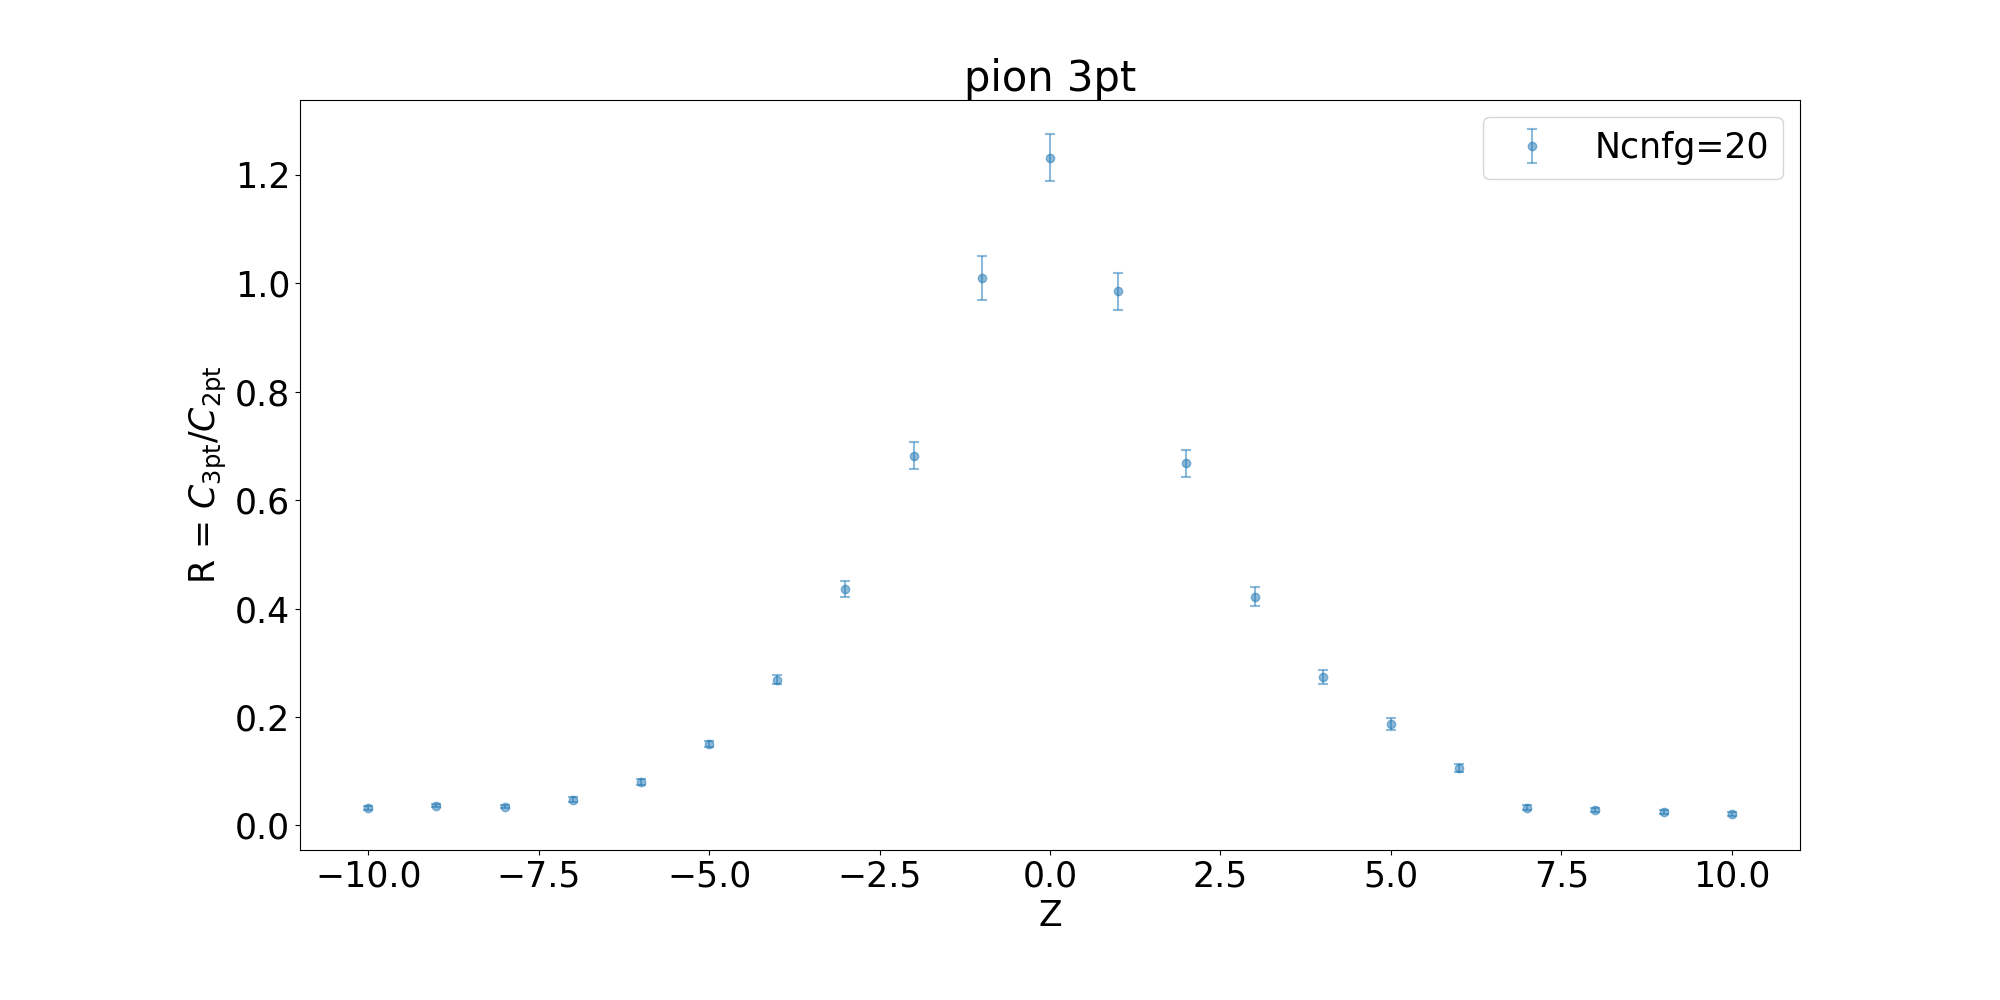
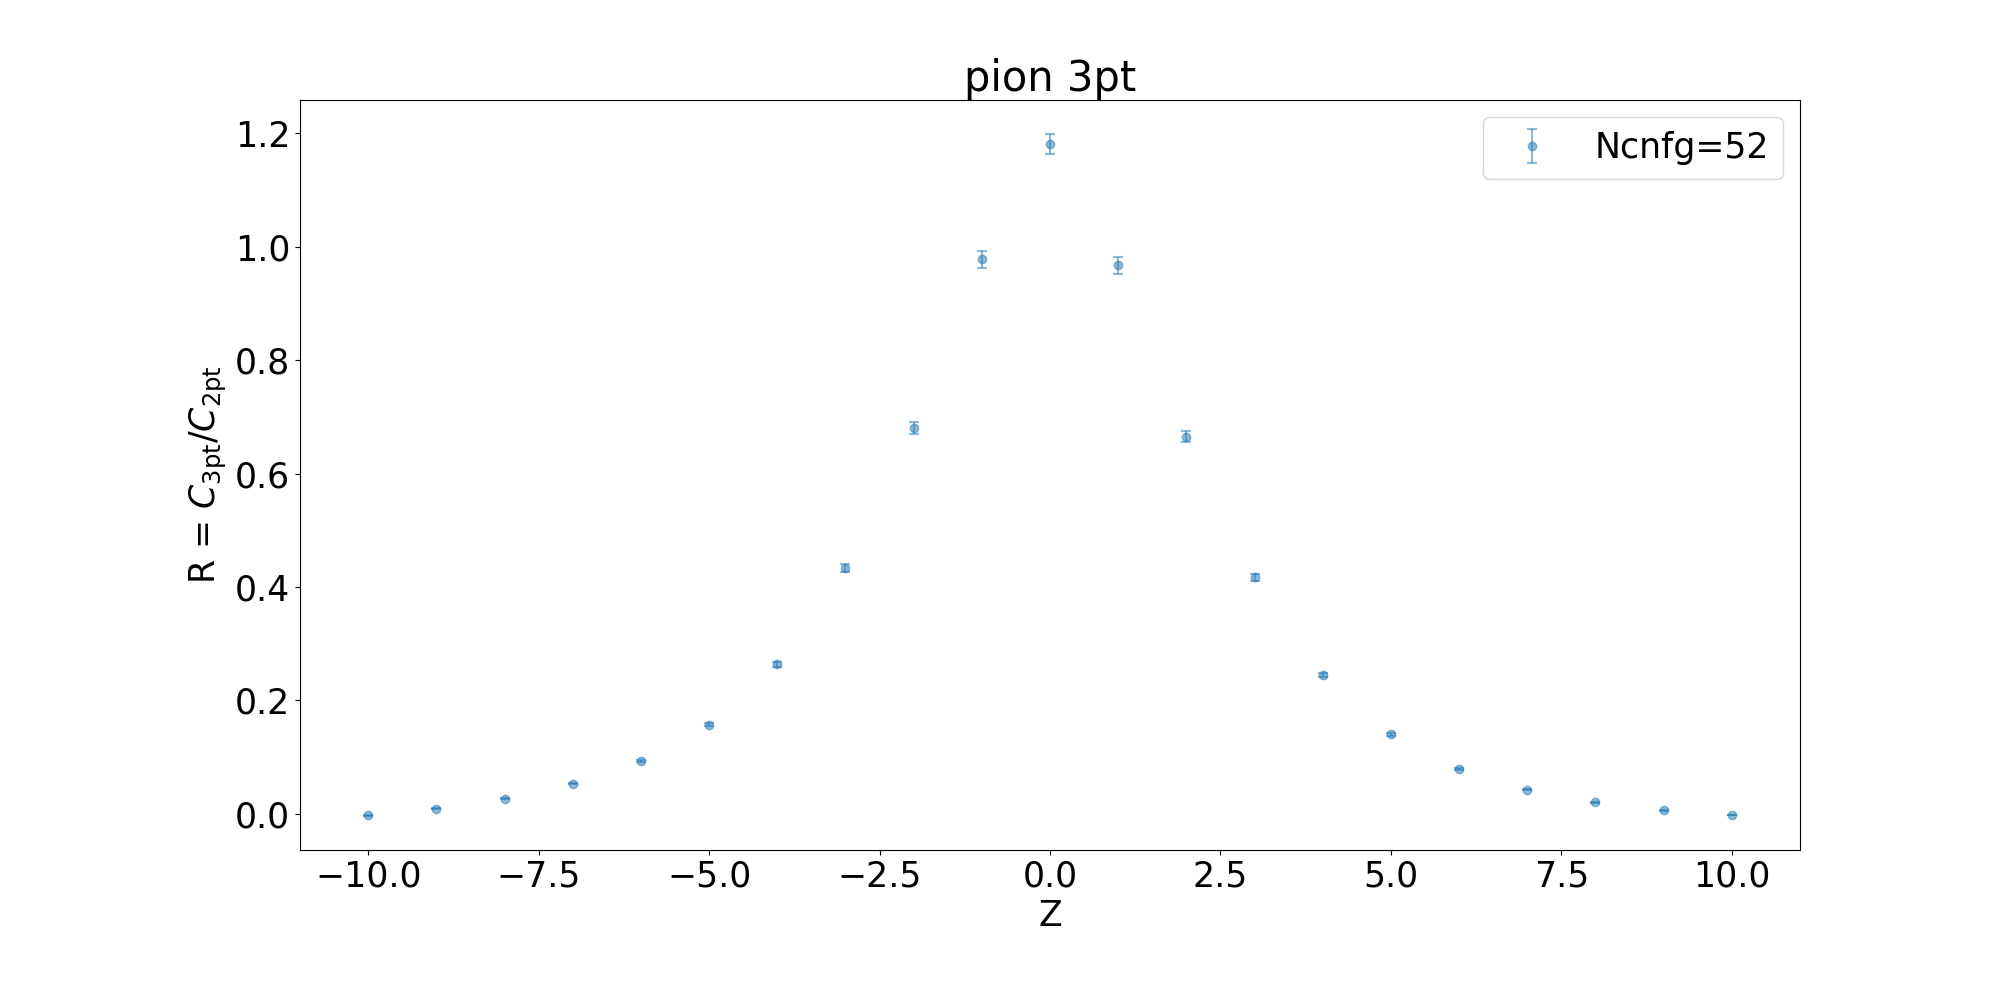
2025-03-24-16-05-34

diff --git a/pion_3pt/main-3pt.py b/pion_3pt/main-3pt.py
@@ -1,8 +1,36 @@
 from include import *
 import numpy as np
+# filepath = np.array([
+#     './beta6.20_mu-0.2770_ms-0.2400_L%dx%d/iog/pion_U_3pt_Px%dPy%dPz%d_ENV%d_conf%d_tsep%d_mass-0.2770_linkdir2_linkmax%d_conserved_true.iog', 
+#     './beta6.20_mu-0.2770_ms-0.2400_L%dx%d/iog/pion_2pt_Px%dPy%dPz%d_ENV%d_conf%d_tsep-1_mass-0.2770.iog',
+#                      ])
+# analyse = data_analyse(
+#     num_data=2,
+#     hadron='pion',
+#     filepath=filepath,
+#     alttc=0.1053,
+#     Nx=24,
+#     Nt=72,
+#     time_fold=True,
+#     P=np.asarray([[0,0,0]]),
+#     ENV=np.asarray(range(-1,0,1)),
+#     N_start=10000,
+#     gap=50,
+#     Ncnfg_data=20,
+#     Ncnfg_iog=20,
+#     tsep=np.asarray([10]),
+#     link_max=10,
+#     save_path='./',
+#     analyse_type='ratio',
+#     meff_type='cosh',# for 2pt
+#     read_type='iog',
+# )
+# np.save('_2pt.npy', analyse.readed_jcknf['readed_2pt_iog'])
+# np.save('_3pt.npy', analyse.readed_jcknf['readed_3pt_iog_U'])
+# print('complete')
 filepath = np.array([
-    './beta6.20_mu-0.2770_ms-0.2400_L%dx%d/iog/pion_U_3pt_Px%dPy%dPz%d_ENV%d_conf%d_tsep%d_mass-0.2770_linkdir2_linkmax%d_conserved_true.iog', 
-    './beta6.20_mu-0.2770_ms-0.2400_L%dx%d/iog/pion_2pt_Px%dPy%dPz%d_ENV%d_conf%d_tsep-1_mass-0.2770.iog',
+    './beta6.20_mu-0.2770_ms-0.2400_L%dx%d/sush_iog/pion_3pt_Px%dPy%dPz%d_ENV%d_conf%d_tsep%d_mass-0.2770_linkdir2_linkmax%d.iog', 
+    './beta6.20_mu-0.2770_ms-0.2400_L%dx%d/sush_iog/pion_2pt_Px%dPy%dPz%d_ENV%d_conf%d_tsep-1_mass-0.2770.iog',
                      ])
 analyse = data_analyse(
     num_data=2,
@@ -14,11 +42,11 @@ analyse = data_analyse(
     time_fold=True,
     P=np.asarray([[0,0,0]]),
     ENV=np.asarray(range(-1,0,1)),
-    N_start=10000,
+    N_start=10050,
     gap=50,
-    Ncnfg_data=20,
-    Ncnfg_iog=20,
-    tsep=np.asarray([10]),
+    Ncnfg_data=0,
+    Ncnfg_iog=52,
+    tsep=np.asarray([36]),
     link_max=10,
     save_path='./',
     analyse_type='ratio',

diff --git a/pion_3pt/main-2pt.py b/pion_3pt/main-2pt.py
@@ -1,7 +1,37 @@
 from include import *
 import numpy as np
+# filepath = np.array([
+#     './beta6.20_mu-0.2770_ms-0.2400_L%dx%d/iog/pion_2pt_Px%dPy%dPz%d_ENV%d_conf%d_tsep-1_mass-0.2770.iog',
+#                      ])
+# analyse = data_analyse(
+#     num_data=1,
+#     hadron='pion',
+#     filepath=filepath,
+#     alttc=0.1053,
+#     Nx=24,
+#     Nt=72,
+#     P=np.asarray([[0,0,0]]),
+#     ENV=np.asarray(range(-1,0,1)),
+#     N_start=10000,
+#     gap=50,
+#     Ncnfg_data=0,
+#     Ncnfg_iog=20,
+#     tsep=np.asarray([10]),
+#     time_fold=0,
+#     save_path='./',
+#     link_max=10,
+#     analyse_type='2pt',
+#     meff_type='cosh',
+#     read_type='iog',
+# )
+# meff_range = [0,1.0]
+# analyse.meff_2pt('iog')
+# print(analyse.meff_data_2pt)
+# analyse.plot_meff_2pt('iog', meff_range)
+# print('complete')
+
 filepath = np.array([
-    './beta6.20_mu-0.2770_ms-0.2400_L%dx%d/iog/pion_2pt_Px%dPy%dPz%d_ENV%d_conf%d_tsep-1_mass-0.2770.iog',
+    './beta6.20_mu-0.2770_ms-0.2400_L%dx%d/sush_iog/pion_2pt_Px%dPy%dPz%d_ENV%d_conf%d_tsep-1_mass-0.2770.iog',
                      ])
 analyse = data_analyse(
     num_data=1,
@@ -12,14 +42,14 @@ analyse = data_analyse(
     Nt=72,
     P=np.asarray([[0,0,0]]),
     ENV=np.asarray(range(-1,0,1)),
-    N_start=10000,
+    N_start=10050,
     gap=50,
     Ncnfg_data=0,
-    Ncnfg_iog=20,
-    tsep=np.asarray([10]),
+    Ncnfg_iog=52,
+    tsep=np.asarray([36]),
     time_fold=0,
     save_path='./',
-    link_max=0,
+    link_max=10,
     analyse_type='2pt',
     meff_type='cosh',
     read_type='iog',

diff --git a/pion_3pt/main.py b/pion_3pt/main.py
@@ -1,8 +1,46 @@
 import numpy as np
 import matplotlib.pyplot as plt
-Ncnfg=20
+# Ncnfg=20
+# t_3pt=0
+# t_2pt=12
+# _3pt=np.load('_3pt.npy')[0,0,0,...]
+# _2pt=np.load('_2pt.npy')[0,0,...]
+# print("_3pt.shape:",_3pt.shape)
+# print("_2pt.shape:",_2pt.shape)
+# err_3pt=np.std(_3pt,axis=1)
+# print("err_3pt.shape:",err_3pt.shape)
+# data_3pt=np.mean(_3pt,axis=1)
+# data_2pt=np.mean(_2pt,axis=0)
+# print("data_3pt.shape",data_3pt.shape)
+# print("data_2pt.shape",data_2pt.shape)
+# _data_3pt=data_3pt[:,t_3pt]
+# _data_2pt=data_2pt[t_2pt]
+# _err_3pt=err_3pt[:,t_3pt]
+# print("_data_3pt.shape",_data_3pt.shape)
+# print("_data_2pt.shape",_data_2pt.shape)
+# print("_err_3pt.shape",_err_3pt.shape)
+# Y=_data_3pt/_data_2pt
+# X=np.arange(len(Y))-(len(Y)-1)/2
+# ERR=_err_3pt/_data_2pt
+# print("Y.shape",Y.shape)
+# print("ERR.shape",ERR.shape)
+# print("X.shape",X.shape)
+# print("Y:",Y)
+# print("ERR:",ERR)
+# print("X:",X)
+# plt.rcParams.update({'font.size':25})
+# fig, ax = plt.subplots(1,1, figsize=(20, 20*0.5))
+# fig.subplots_adjust(left=0.15, right=0.9, top=0.9, bottom=0.15)
+# ax.set_xlabel('Z')
+# ax.set_ylabel('R = $C_{\mathrm{3pt}}$/$C_{\mathrm{2pt}}$')
+# ax.errorbar(X,Y,yerr=ERR,fmt='o', alpha=0.5, capsize=3.5, capthick=1.5, label='Ncnfg='+str(Ncnfg))
+# ax.legend()
+# plt.title('pion 3pt')
+# plt.savefig('pion_3pt.png')
+
+Ncnfg=52
 t_3pt=0
-t_2pt=12
+t_2pt=35
 _3pt=np.load('_3pt.npy')[0,0,0,...]
 _2pt=np.load('_2pt.npy')[0,0,...]
 print("_3pt.shape:",_3pt.shape)
